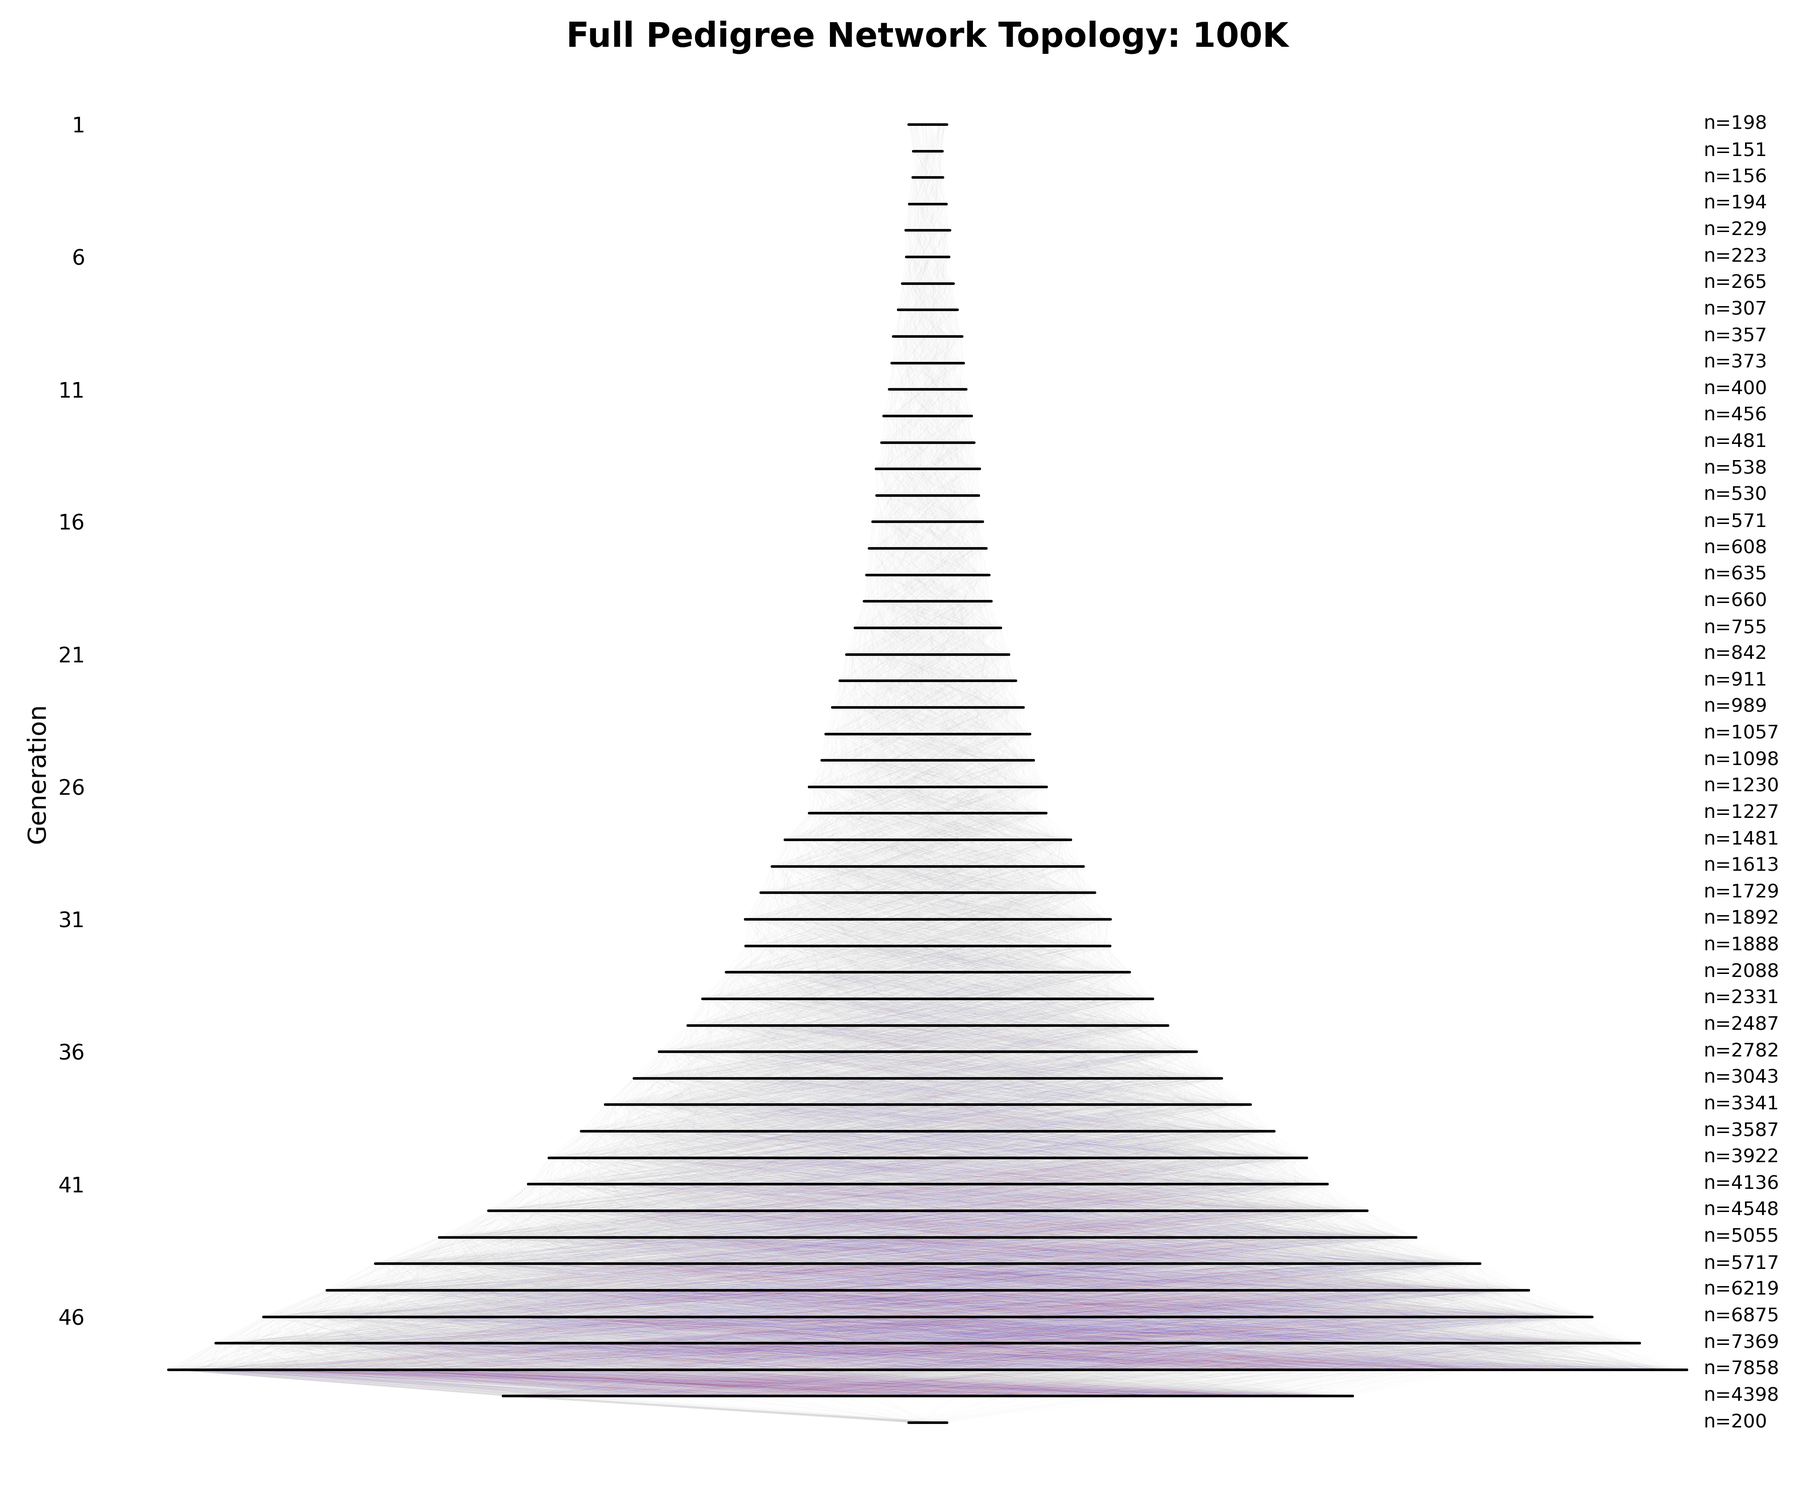
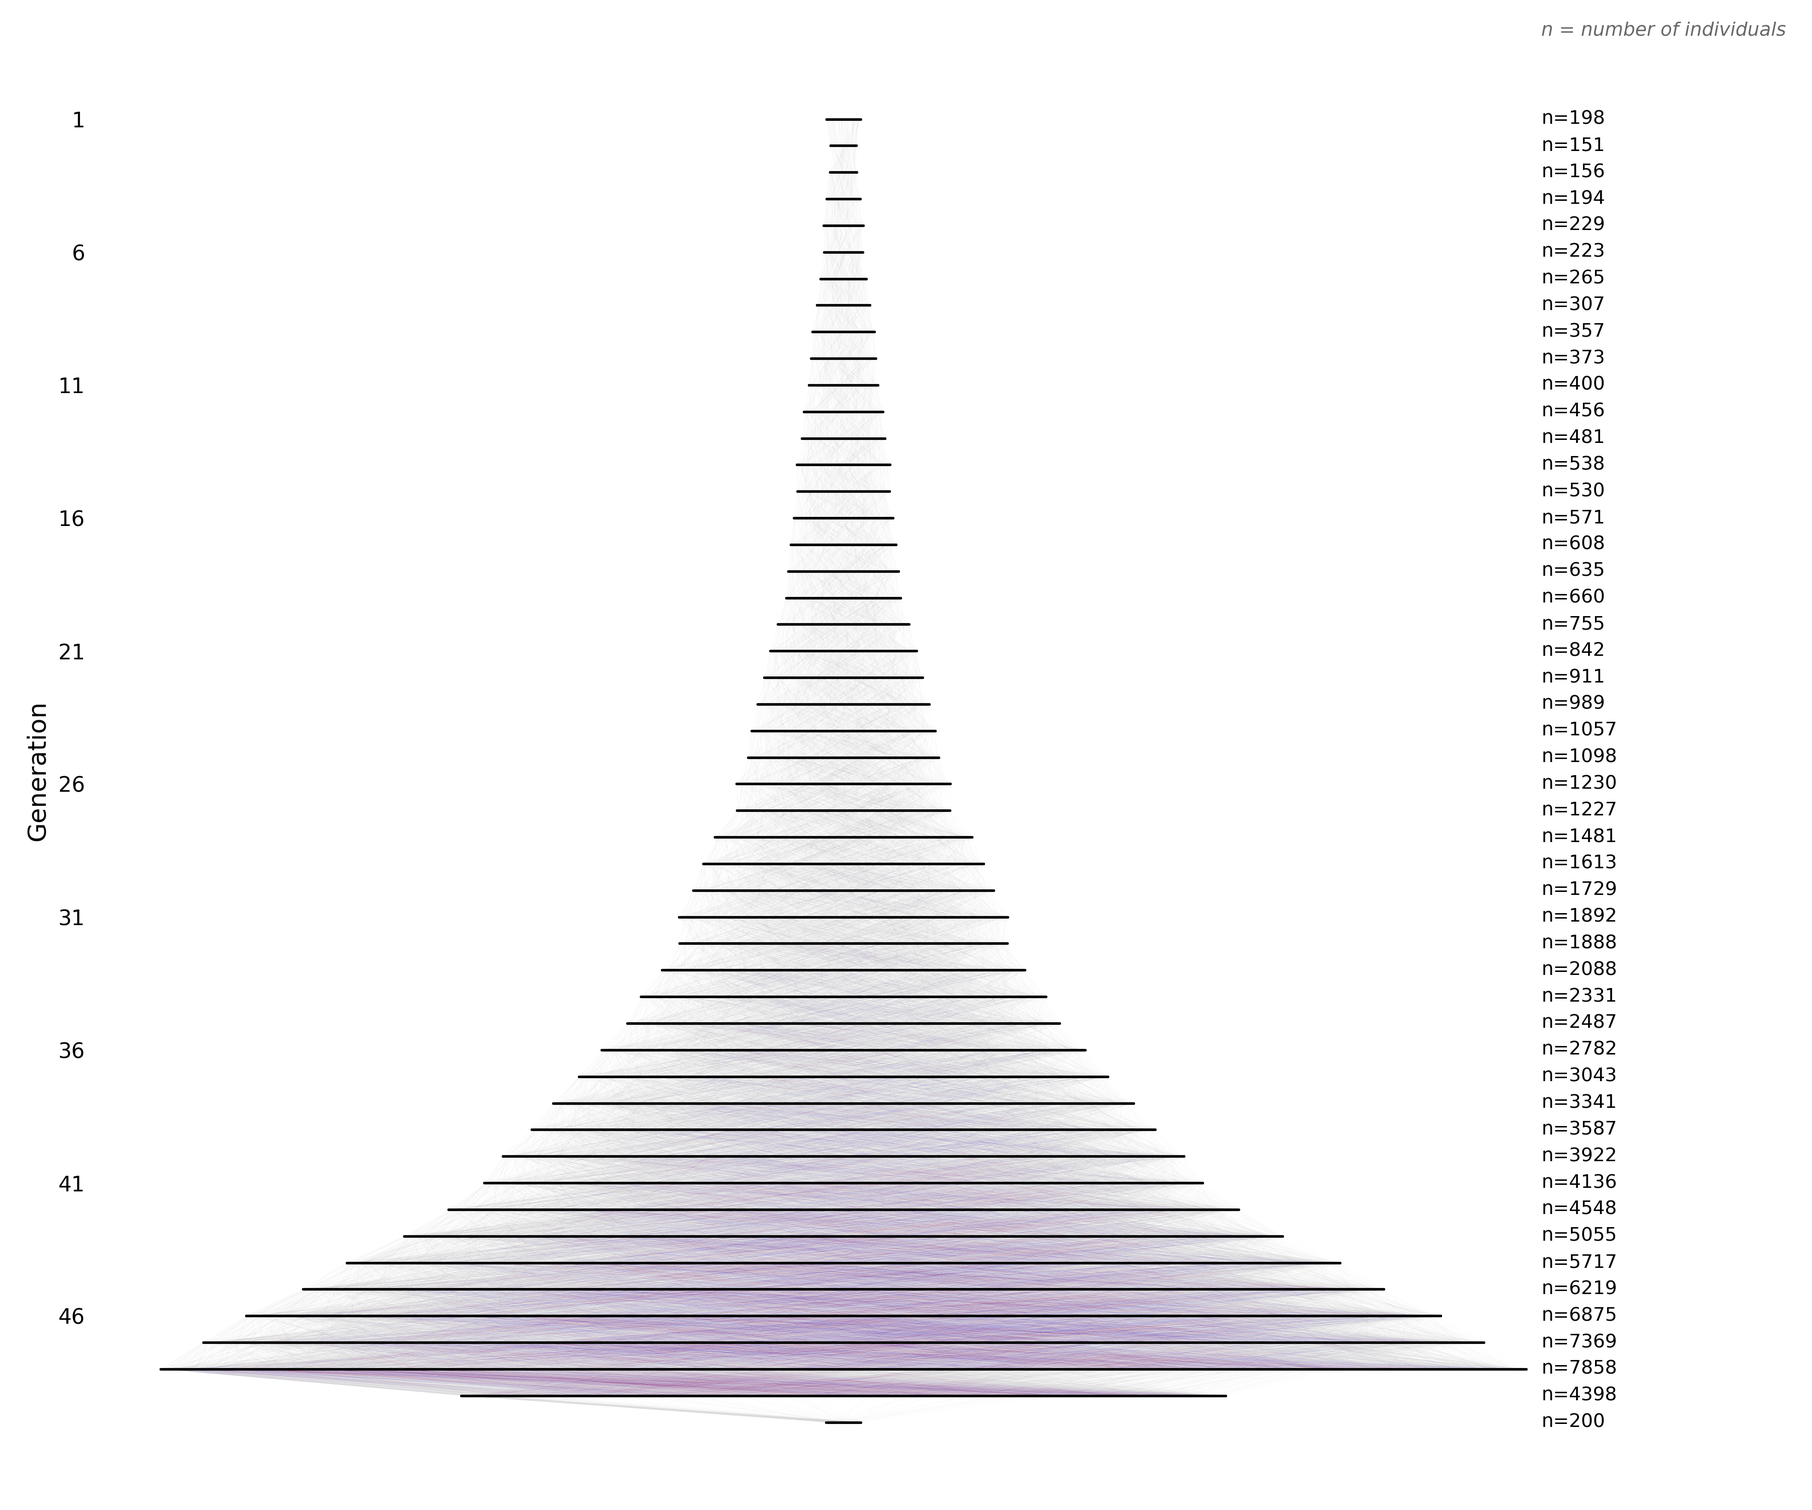
feat: add regular and paper-scaled plots for data generation scripts and restore png/log tracking in gitignore

diff --git a/data_generator/analytics.py b/data_generator/analytics.py
@@ -846,29 +846,37 @@ class AnalyticsEngine:
         else:
             dataset_label = "100k"
 
-        plt.figure(figsize=(10, 6))
-        plt.plot(years, alive_counts, color=colors.get(self.target_population, "tab:grey"), linewidth=3)
-        plt.title(f"Population Growth: {dataset_label.upper()} Target", fontsize=16, fontweight='bold')
-        plt.xlabel("Simulation Year", fontsize=12)
-        plt.ylabel("Living Population", fontsize=12)
-        plt.grid(True, which="both", linestyle='--', alpha=0.7)
-        plt.tight_layout()
+        configs = [
+            {"suffix": "", "figsize": (10, 6), "title_fs": 16, "label_fs": 12, "tick_fs": 10, "lw": 3, "dpi": 300},
+            {"suffix": "_paper", "figsize": (4.5, 3), "title_fs": 10, "label_fs": 8, "tick_fs": 7, "lw": 1.5,
+             "dpi": 600}
+        ]
 
-        output_image = os.path.join(self.output_dir, f"population_growth.png")
-        plt.savefig(output_image, dpi=300)
-        print(f"[{self.target_population}] Graph saved to: {output_image}")
-        plt.close()
+        for cfg in configs:
+            plt.figure(figsize=cfg["figsize"])
+            plt.plot(years, alive_counts, color=colors.get(self.target_population, "tab:grey"), linewidth=cfg["lw"])
+            plt.xlabel("Simulation Year", fontsize=cfg["label_fs"])
+            plt.ylabel("Living Population", fontsize=cfg["label_fs"])
+            plt.xticks(fontsize=cfg["tick_fs"])
+            plt.yticks(fontsize=cfg["tick_fs"])
+            plt.grid(True, which="both", linestyle='--', alpha=0.7)
+            plt.tight_layout()
+
+            output_image = os.path.join(self.output_dir, f"population_growth{cfg['suffix']}.png")
+            plt.savefig(output_image, dpi=cfg["dpi"])
+            print(f"[{self.target_population}] Graph saved to: {output_image}")
+            plt.close()
 
     def _plot_age_distribution_living(self):
         """Generates a Population Pyramid chart split by sex."""
 
         def format_pct(x):
             if x < 1e-9:
-                return "0%"
+                return "0"
             elif x < 0.1:
-                return "<0.1%"
+                return "<0.1"
             else:
-                return f"{x:.1f}%"
+                return f"{x:.1f}"
 
         males = Counter()
         females = Counter()
@@ -899,50 +907,60 @@ class AnalyticsEngine:
         y_pos = range(len(bins))
         labels = [f"{b}-{b + 4}" if b < 100 else "100+" for b in bins]
 
-        plt.figure(figsize=(10, 8))
-
-        plt.barh(y_pos, [-m for m in m_pct], height=0.95, color='steelblue')
-        plt.barh(y_pos, f_pct, height=0.95, color='lightcoral')
-
         dataset_label = f"{self.target_population // 1000}k" if self.target_population >= 1000 else str(
             self.target_population)
-        plt.title(f"Population Pyramid (Living): {dataset_label.upper()}", fontsize=16, fontweight='bold', pad=30)
-
         max_pct = max(max(m_pct) if m_pct else 0, max(f_pct) if f_pct else 0)
         limit = max_pct + (max_pct * 0.25) + 0.1
-        plt.xlim(-limit, limit)
 
-        ax = plt.gca()
-        ax.xaxis.set_major_formatter(FuncFormatter(lambda x, pos: f"{abs(x):.0f}%"))
+        configs = [
+            {"suffix": "", "figsize": (10, 8), "title_fs": 16, "label_fs": 12, "tick_fs": 10, "gender_fs": 14,
+             "pct_fs": 9, "pad": 30, "dpi": 300},
+            {"suffix": "_paper", "figsize": (4.5, 4), "title_fs": 10, "label_fs": 8, "tick_fs": 7, "gender_fs": 9,
+             "pct_fs": 6, "pad": 15, "dpi": 600}
+        ]
 
-        ax.spines['top'].set_visible(False)
-        ax.spines['right'].set_visible(False)
-        ax.spines['left'].set_visible(True)
-        ax.tick_params(axis='y', length=0)
+        for cfg in configs:
+            plt.figure(figsize=cfg["figsize"])
 
-        plt.yticks(y_pos, labels, fontsize=10)
-        plt.xlabel("Population Percentage (%)", fontsize=12)
+            plt.barh(y_pos, [-m for m in m_pct], height=0.95, color='steelblue')
+            plt.barh(y_pos, f_pct, height=0.95, color='lightcoral')
 
-        plt.text(-limit / 2, len(bins), 'Male', ha='center', va='bottom', fontsize=14)
-        plt.text(limit / 2, len(bins), 'Female', ha='center', va='bottom', fontsize=14)
+            plt.xlim(-limit, limit)
 
-        for i, (m, f) in enumerate(zip(m_pct, f_pct)):
-            if m > 0:
-                label = format_pct(m)
-                if label:
-                    plt.text(-m - (limit * 0.02), i, label, va='center', ha='right', fontsize=9)
+            ax = plt.gca()
+            ax.xaxis.set_major_formatter(FuncFormatter(lambda x, pos: f"{abs(x):.0f}"))
 
-            if f > 0:
-                label = format_pct(f)
-                if label:
-                    plt.text(f + (limit * 0.02), i, label, va='center', ha='left', fontsize=9)
+            ax.spines['top'].set_visible(False)
+            ax.spines['right'].set_visible(False)
+            ax.spines['left'].set_visible(True)
+            ax.tick_params(axis='y', length=0)
+            ax.tick_params(axis='x', labelsize=cfg["tick_fs"])
 
-        plt.tight_layout()
+            plt.yticks(y_pos, labels, fontsize=cfg["tick_fs"])
 
-        output_image = os.path.join(self.output_dir, "population_pyramid.png")
-        plt.savefig(output_image, dpi=300)
-        print(f"[{self.target_population}] Graph saved to: {output_image}")
-        plt.close()
+            plt.xlabel("Population Percentage (%)", fontsize=cfg["label_fs"])
+            plt.ylabel("Age Group (Years)", fontsize=cfg["label_fs"])
+
+            plt.text(-limit / 2, len(bins), 'Male', ha='center', va='bottom', fontsize=cfg["gender_fs"])
+            plt.text(limit / 2, len(bins), 'Female', ha='center', va='bottom', fontsize=cfg["gender_fs"])
+
+            for i, (m, f) in enumerate(zip(m_pct, f_pct)):
+                if m > 0:
+                    label = format_pct(m)
+                    if label:
+                        plt.text(-m - (limit * 0.02), i, label, va='center', ha='right', fontsize=cfg["pct_fs"])
+
+                if f > 0:
+                    label = format_pct(f)
+                    if label:
+                        plt.text(f + (limit * 0.02), i, label, va='center', ha='left', fontsize=cfg["pct_fs"])
+
+            plt.tight_layout()
+
+            output_image = os.path.join(self.output_dir, f"population_pyramid{cfg['suffix']}.png")
+            plt.savefig(output_image, dpi=cfg["dpi"])
+            print(f"[{self.target_population}] Graph saved to: {output_image}")
+            plt.close()
 
     def _plot_generated_per_quarter(self):
         """Generates a Spindle Diagram to visualize the width of the genealogical tree."""
@@ -960,33 +978,38 @@ class AnalyticsEngine:
 
         dataset_label = f"{self.target_population // 1000}k" if self.target_population >= 1000 else str(
             self.target_population)
-
-        plt.figure(figsize=(10, 10))
-        plt.barh(y=quarters, width=counts, height=25, left=lefts, color='darkseagreen', edgecolor='black', alpha=0.8)
-
-        plt.title(f"Genealogical Tree Width per Generation: {dataset_label.upper()}", fontsize=16, fontweight='bold')
-        plt.ylabel("Generation (Simulation Year)", fontsize=12)
-        plt.xlabel("New Individuals Generated", fontsize=12)
-
         max_c = max(counts)
         padding = (max_c / 2) * 1.08
-        plt.xlim(-padding, padding)
-
         step = 25 if len(quarters) <= 20 else (100 if len(quarters) > 40 else 50)
-        plt.yticks(range(quarters[0], quarters[-1] + 25, step))
 
-        ax = plt.gca()
-        ax.xaxis.set_major_formatter(FuncFormatter(lambda x, pos: f"{abs(int(x))}"))
-        ax.invert_yaxis()
+        configs = [
+            {"suffix": "", "figsize": (10, 10), "title_fs": 16, "label_fs": 12, "tick_fs": 10, "dpi": 300},
+            {"suffix": "_paper", "figsize": (4.5, 4.5), "title_fs": 10, "label_fs": 8, "tick_fs": 7, "dpi": 600}
+        ]
 
-        plt.axvline(0, color='black', linewidth=1, linestyle='--')
-        plt.grid(axis='x', linestyle='--', alpha=0.5)
-        plt.tight_layout()
+        for cfg in configs:
+            plt.figure(figsize=cfg["figsize"])
+            plt.barh(y=quarters, width=counts, height=25, left=lefts, color='darkseagreen', edgecolor='black',
+                     alpha=0.8)
+            plt.ylabel("Generation (Simulation Year)", fontsize=cfg["label_fs"])
+            plt.xlabel("New Individuals Generated", fontsize=cfg["label_fs"])
 
-        output_image = os.path.join(self.output_dir, "tree_width_generations.png")
-        plt.savefig(output_image, dpi=300)
-        print(f"[{self.target_population}] Graph saved to: {output_image}")
-        plt.close()
+            plt.xlim(-padding, padding)
+            plt.yticks(range(quarters[0], quarters[-1] + 25, step), fontsize=cfg["tick_fs"])
+            plt.xticks(fontsize=cfg["tick_fs"])
+
+            ax = plt.gca()
+            ax.xaxis.set_major_formatter(FuncFormatter(lambda x, pos: f"{abs(int(x))}"))
+            ax.invert_yaxis()
+
+            plt.axvline(0, color='black', linewidth=1, linestyle='--')
+            plt.grid(axis='x', linestyle='--', alpha=0.5)
+            plt.tight_layout()
+
+            output_image = os.path.join(self.output_dir, f"tree_width_generations{cfg['suffix']}.png")
+            plt.savefig(output_image, dpi=cfg["dpi"])
+            print(f"[{self.target_population}] Graph saved to: {output_image}")
+            plt.close()
 
     def _plot_network_topology(self, max_depth: int, depths: dict, bio_children_map: dict):
         """Generates a full network topology graph (nodes and edges per generation)."""
@@ -1038,48 +1061,62 @@ class AnalyticsEngine:
                         lines.append([p_coord, coords[child_id]])
                         line_colors.append(color)
 
-        plt.figure(figsize=(12, 10))
-        ax = plt.gca()
-
         if self.target_population <= 1000:
-            line_alpha, line_width, node_size = 0.5, 0.5, 5
+            base_alpha, base_width, base_node = 0.5, 0.5, 5
         elif self.target_population <= 10000:
-            line_alpha, line_width, node_size = 0.15, 0.2, 1.0
+            base_alpha, base_width, base_node = 0.15, 0.2, 1.0
         else:
-            line_alpha, line_width, node_size = 0.02, 0.05, 0.05
-
-        lc = LineCollection(lines, colors=line_colors, linewidths=line_width, alpha=line_alpha, zorder=1)
-        ax.add_collection(lc)
-
-        x_vals = [coords[pid][0] for pid in coords]
-        y_vals = [coords[pid][1] for pid in coords]
-        ax.scatter(x_vals, y_vals, color='black', s=node_size, zorder=2)
-
-        for d in range(1, vis_max_depth + 1):
-            count = len(gen_nodes.get(d, []))
-            if count > 0:
-                ax.text(0.96, d, f"n={count}", va='center', ha='left', fontsize=9, color='black')
-
-        ax.invert_yaxis()
-
-        step = 5 if vis_max_depth > 25 else 1
-        ax.set_yticks(range(1, vis_max_depth + 1, step))
-        ax.set_ylabel("Generation", fontsize=12)
-        ax.set_xticks([])
-
-        for spine in ax.spines.values():
-            spine.set_visible(False)
-        ax.tick_params(axis='y', length=0)
+            base_alpha, base_width, base_node = 0.02, 0.05, 0.05
 
         dataset_label = f"{self.target_population // 1000}k" if self.target_population >= 1000 else str(
             self.target_population)
-        plt.title(f"Full Pedigree Network Topology: {dataset_label.upper()}", fontsize=16, fontweight='bold')
 
-        plt.tight_layout()
-        output_image = os.path.join(self.output_dir, "network_topology.png")
-        plt.savefig(output_image, dpi=300)
-        print(f"[{self.target_population}] Graph saved to: {output_image}")
-        plt.close()
+        configs = [
+            {"suffix": "", "figsize": (12, 10), "title_fs": 16, "label_fs": 12, "tick_fs": 10, "text_fs": 9,
+             "scale": 1.0, "dpi": 300},
+            {"suffix": "_paper", "figsize": (5.5, 4.5), "title_fs": 10, "label_fs": 8, "tick_fs": 7, "text_fs": 5,
+             "scale": 0.6, "dpi": 600}
+        ]
+
+        for cfg in configs:
+            plt.figure(figsize=cfg["figsize"])
+            ax = plt.gca()
+
+            lw = base_width * cfg["scale"]
+            ns = base_node * cfg["scale"]
+
+            lc = LineCollection(lines, colors=line_colors, linewidths=lw, alpha=base_alpha, zorder=1)
+            ax.add_collection(lc)
+
+            x_vals = [coords[pid][0] for pid in coords]
+            y_vals = [coords[pid][1] for pid in coords]
+            ax.scatter(x_vals, y_vals, color='black', s=ns, zorder=2)
+
+            ax.text(0.96, 1.01, "n = number of individuals", transform=ax.get_xaxis_transform(),
+                    va='bottom', ha='left', fontsize=cfg["text_fs"], color='dimgray', style='italic')
+
+            for d in range(1, vis_max_depth + 1):
+                count = len(gen_nodes.get(d, []))
+                if count > 0:
+                    ax.text(0.96, d, f"n={count}", va='center', ha='left', fontsize=cfg["text_fs"], color='black')
+
+            ax.invert_yaxis()
+
+            step = 5 if vis_max_depth > 25 else 1
+            ax.set_yticks(range(1, vis_max_depth + 1, step))
+            ax.tick_params(axis='y', labelsize=cfg["tick_fs"])
+            ax.set_ylabel("Generation", fontsize=cfg["label_fs"])
+            ax.set_xticks([])
+
+            for spine in ax.spines.values():
+                spine.set_visible(False)
+            ax.tick_params(axis='y', length=0)
+
+            plt.tight_layout()
+            output_image = os.path.join(self.output_dir, f"network_topology{cfg['suffix']}.png")
+            plt.savefig(output_image, dpi=cfg["dpi"])
+            print(f"[{self.target_population}] Graph saved to: {output_image}")
+            plt.close()
 
     def _update_scenario_files(
             self,

diff --git a/benchmark_scr/monitoring/DiskSizeCollector.cs b/benchmark_scr/monitoring/DiskSizeCollector.cs
@@ -7,9 +7,6 @@ namespace benchmark_scr.monitoring {
             driver.ExecuteNonQuery("VACUUM (ANALYZE) people;");
             driver.ExecuteNonQuery("VACUUM (ANALYZE) families;");
             driver.ExecuteNonQuery("VACUUM (ANALYZE) family_children;");
-            driver.ExecuteNonQuery("ALTER TABLE people SET (autovacuum_enabled = true);");
-            driver.ExecuteNonQuery("ALTER TABLE families SET (autovacuum_enabled = true);");
-            driver.ExecuteNonQuery("ALTER TABLE family_children SET (autovacuum_enabled = true);");
             driver.ExecuteNonQuery("CHECKPOINT;");
             
             uint oid = driver.ExecuteScalar<uint>("SELECT oid FROM pg_database WHERE datname = 'benchmarkdb';");
@@ -36,6 +33,8 @@ namespace benchmark_scr.monitoring {
 
         public static void ExportNeo4j(string dataset, Neo4jDriver driver) {
             driver.ExecuteWriteCypherAsync("CALL db.awaitIndexes();")
+                .GetAwaiter().GetResult();
+            driver.ExecuteWriteCypherAsync("CALL db.checkpoint();")
                 .GetAwaiter().GetResult();
             
             var psi = new ProcessStartInfo {

diff --git a/data_generator/parameter_search.py b/data_generator/parameter_search.py
@@ -170,14 +170,14 @@ def check_lca_exists(people, families, target_lca):
 def check_ancestors_target(people, families, target_pop):
     """
     Checks if there is an individual with enough distinct biological ancestors.
-    Depth limits: 1k (5 gen -> max 62), 10k (10 gen -> max 2046), 100k (15 gen -> max 65534).
+    Depth limits: 1k (5 gen -> max 62), 10k (10 gen -> max 2046), 100k (20 gen -> max 2097150).
     """
     if target_pop == 1000:
         target_depth, required_count = 5, 58
     elif target_pop == 10000:
         target_depth, required_count = 10, 700
     else:
-        target_depth, required_count = 15, 7000
+        target_depth, required_count = 20, 10000
 
     youngest_ids = sorted(people.keys(), key=lambda x: people[x].birth_date, reverse=True)[:200]
 

diff --git a/benchmark_scr/benchmark/queries/PsImport.cs b/benchmark_scr/benchmark/queries/PsImport.cs
@@ -50,6 +50,11 @@ namespace benchmark_scr.benchmark.queries {
             driver.Open();
             driver.ExecuteNonQuery(repo.PgCreateIndexesSql);
             DiskSizeCollector.ExportPostgres(env, driver);
+
+            driver.ExecuteNonQuery("ALTER TABLE people SET (autovacuum_enabled = true);");
+            driver.ExecuteNonQuery("ALTER TABLE families SET (autovacuum_enabled = true);");
+            driver.ExecuteNonQuery("ALTER TABLE family_children SET (autovacuum_enabled = true);");
+
             await validator.ValidatePostgresAsync(driver);
             driver.Dispose();
         }

diff --git a/data_generator/data_generation_logic.md b/data_generator/data_generation_logic.md
@@ -29,7 +29,7 @@ Running this script performs a Monte Carlo simulation over thousands of combinat
 1. **Growth Shape:** Rejects scenarios with sudden population drops (>4%) or extended stagnation periods.
 2. **Graph Depth:** Ensures the maximum tree depth matches constraints.
 3. **LCA Target:** Verifies that at least one pair of individuals satisfies the required Lowest Common Ancestor distance.
-4. **Ancestor Discovery (Scenario 04):** Validates the degree of pedigree collapse by ensuring the simulation yields a sufficient number of distinct biological ancestors (e.g., >800 for 10 generations, and >8000 for 15 generations).
+4. **Ancestor Discovery (Scenario 04):** Validates the degree of pedigree collapse by ensuring the simulation yields a sufficient number of distinct biological ancestors (e.g., >700 for 10 generations, and >10000 for 20 generations).
 
 When an optimal configuration is found, the script outputs the exact Python code to paste into `config.py`.
 
@@ -62,7 +62,7 @@ simulating realistic record sparsity.
 ## Simulation Engine (`engine.py`)
 
 The simulation advances year-by-year from `start_year` until the target
-population count is reached or exceeded.
+population count is reached.
 
 ### Founding generation & Immigration
 `initial_pairs` married couples are created at `start_year`. 
